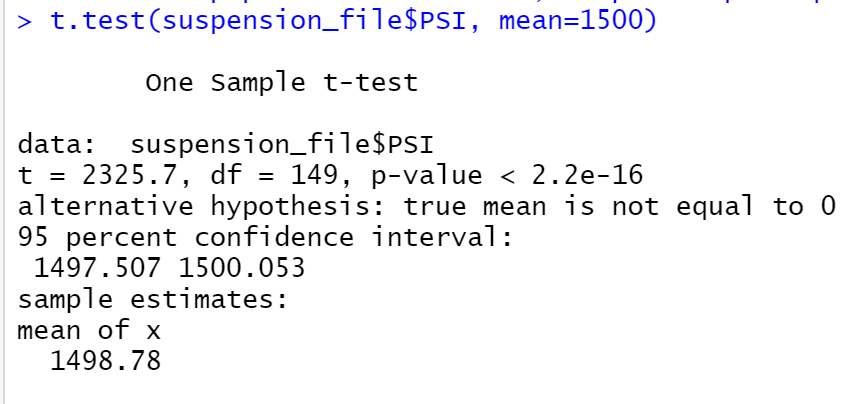
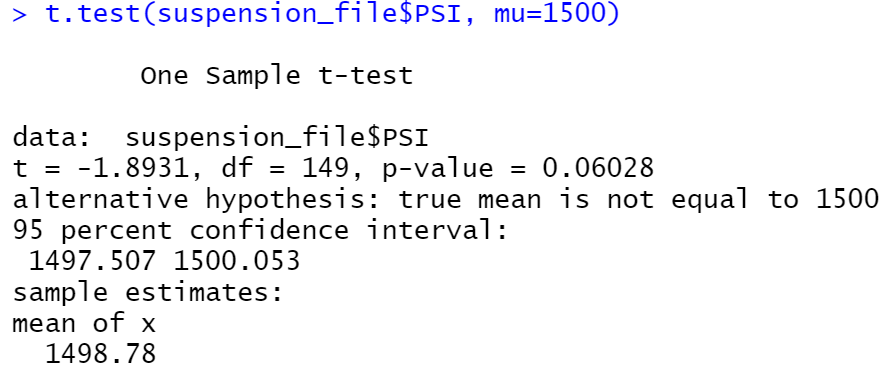
challenge

Changed region(s): [[0.0, 0.321, 0.9954, 0.9629], [0.0, 0.0, 0.7776, 0.0875], [0.1555, 0.1751, 0.4977, 0.2334]]

diff --git a/README.md b/README.md
@@ -1,1 +1,40 @@
 # MechaCar_Statistical_Analysis
+
+## Linear Regression to Predict MPG
+
+- ![](https://github.com/helen3121433/MechaCar_Statistical_Analysis/blob/main/Resources/summary_linear_reg.PNG)
+
+- Which variables/coefficients provided a non-random amount of variance to the mpg values in the dataset?
+    - As we can see in the coefficients table, vehicle_length has p value as 2.60e-12 indicated that vehicle_length and ground_clearance are two variables that provides a non-random amount of variance to the mpg values in the dataset. 
+
+- Is the slope of the linear model considered to be zero? Why or why not?
+    - The p-value of the modle is at 5.35e-11, which is lower than significance level (0.05) and even the extreme significance level (0.001), which means null hypothesis is successful rejected. Conclued that slope of the linear model cannot be considered to be zero.
+
+- Does this linear model predict mpg of MechaCar prototypes effectively? Why or why not?
+    - For our linear regression model,multiple R-squared value is 0.7149, which means that roughly 71.4% of the variability of our dependent variable is explained using this linear model. Conclues that this linear model predict mpg of MechaCar prototypes effectively.
+
+
+## Summary Statistics on Suspension Coils
+- The design specifications for the MechaCar suspension coils dictate that the variance of the suspension coils must not exceed 100 pounds per square inch.
+    - Total Summary of Suspension Coils
+    ![](https://github.com/helen3121433/MechaCar_Statistical_Analysis/blob/main/Resources/suspension_total_summary.PNG)
+    
+    The overal variance is at 62.29356 pounds per square inches, which does not exceed the design specifications (100 pounds per square inch).
+
+    - Summary of Suspension coils per lot
+    ![](https://github.com/helen3121433/MechaCar_Statistical_Analysis/blob/main/Resources/suspension_lot_summary.PNG)
+    
+    Lot 1 and Lot 2 both meet the design specifications, however Lot 3 exceed the design specifications by 70.29 pounds oer square inch, which i ntotal 170.29 ounds per square inch. Lot 3 does not meet the design specification.
+
+## T-Tests on Suspension Coils
+- Use t.test() funciton to determine if PSI across all manufacturing lot, and each manufacturing lot are statistcally different from the population mean of 1500 pounds per square inch. Used one sample t-test.
+
+    - T-test PSI across all manufacturing lots
+    ![]()
+
+    P-value 
+
+
+
+
+    - T-test PSI for each manufacturing lot
